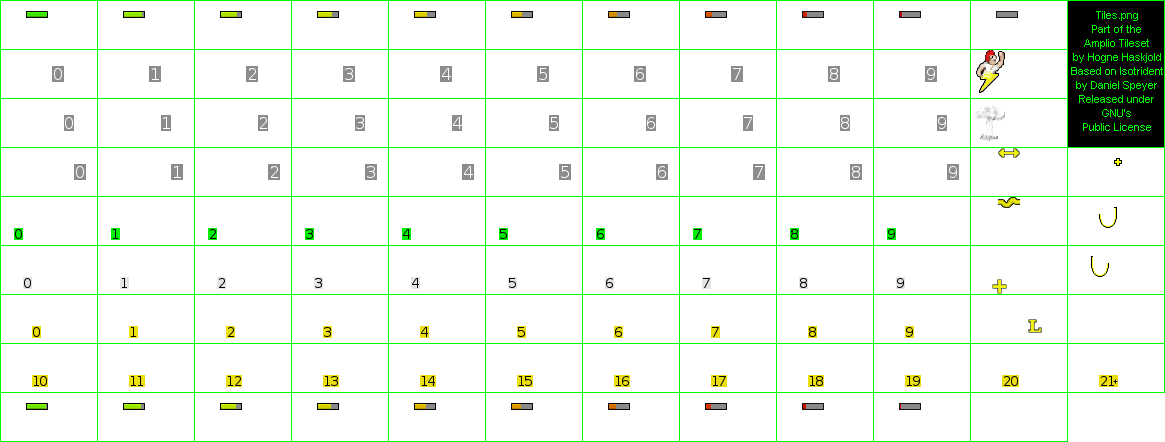
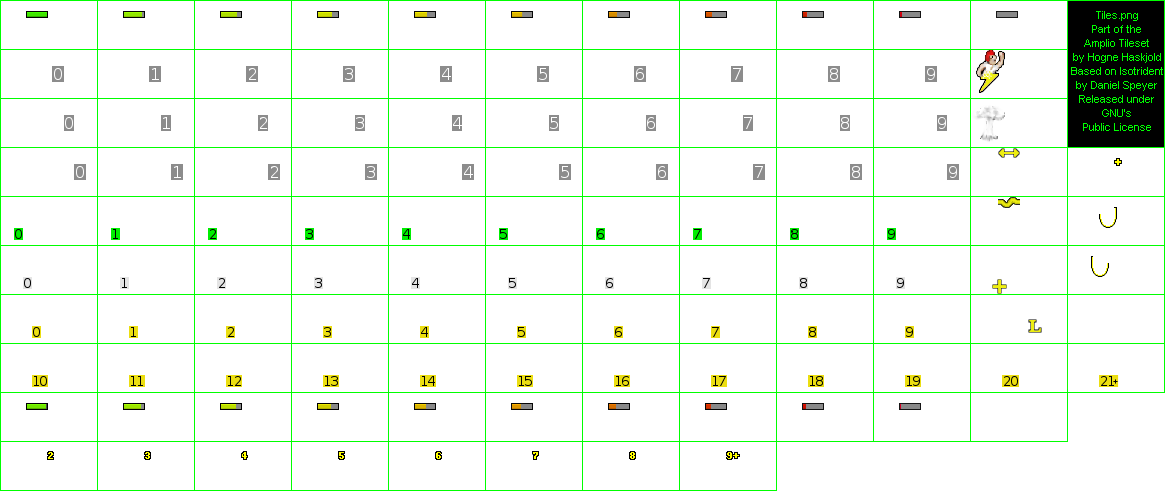
Add stacked unit counter for stack display mode 2...
2. default dispersion to 0; more corrective for games with Capture rules
3. more filtering for shift/alt/ctrl not falling through checks with false positives for hotkeys

diff --git a/freeciv-web/src/main/webapp/javascript/2dcanvas/tilespec.js b/freeciv-web/src/main/webapp/javascript/2dcanvas/tilespec.js
@@ -353,7 +353,8 @@ function fill_sprite_array(layer, ptile, pedge, pcorner, punit, pcity, citymode)
       var is_stacked = false;    // stacked units get a "+" icon drawn over them
       
       if (do_draw_unit && active_city == null) {
-        is_stacked = (ptile['units'] != null && ptile['units'].length > 1);
+        is_stacked = (ptile['units'] != null && ptile['units'].length > 1) ? ptile['units'].length : false;
+        if (is_stacked>9) is_stacked =9;  // 9 or more will just show a "9+" stack icon
         //var backdrop = false; /* !pcity; // this was unused var, eliminated for performance */
 
         if (unit_is_in_focus(punit)) {
@@ -669,7 +670,7 @@ function check_sprite_type(sprite_type)
  ...Highly modified, look at commits prior to 25.March.2020 if debug/
   comparison needed.
 **************************************************************************/
-function fill_unit_sprite_array(punit, stacked)
+function fill_unit_sprite_array(punit, num_stacked)
 {
   //var ptype = unit_type(punit);
   var id = punit['type'];
@@ -715,7 +716,7 @@ function fill_unit_sprite_array(punit, stacked)
     // Hit point bar
     result.push(get_unit_hp_sprite(punit));
     // Stacked "+" icon
-    if (stacked) {
+    if (num_stacked) {
       var push_right=0; // whether to push small stack icon right 2 pixels (for right aligned shield)
       // Optional shield ring for stacked units
       if (draw_stacked_unit_mode & dsum_RING) { 
@@ -731,7 +732,7 @@ function fill_unit_sprite_array(punit, stacked)
                 "offset_y" : -31-unit_offset['y']});
       }
       // Yellow "+" (small or normal) to show unit is in a stack:
-      var stacked = get_unit_stack_sprite();
+      var stacked = get_unit_stack_sprite(num_stacked);
       if (draw_stacked_unit_mode & dsum_SMALL) {
         stacked['offset_x'] += push_right;
       }
@@ -756,9 +757,9 @@ function fill_unit_sprite_array(punit, stacked)
  ...Fixing the fort drawing bug meant that when front walls of a base are
  drawn they can obscure the stacked icon, which gets redrawn in this case.
 **************************************************************************/
-function fill_stacked_in_base_sprite_array(punit)
+function fill_stacked_in_base_sprite_array(punit, num_stacked)
 {
-  var stacked = get_unit_stack_sprite();
+  var stacked = get_unit_stack_sprite(num_stacked);
 
   if (!(draw_stacked_unit_mode & dsum_SMALL) ) {  //// regular mode has custom offsets
     var id = punit['type'];
@@ -1021,10 +1022,10 @@ function get_unit_nation_flag_normal_sprite(punit)
 /**********************************************************************
   ...
 ***********************************************************************/
-function get_unit_stack_sprite(punit)
+function get_unit_stack_sprite(stacksize)
 {
   if (draw_stacked_unit_mode & dsum_SMALL) {   //// alternate small mode of showing stack near hpbar
-    return {"key" : "unit.stack1",
+    return {"key" : "unit.stack"+stacksize+"",
     "offset_x" : unit_flag_offset_x + -25,
     "offset_y" : - unit_flag_offset_y - 15};
   }
@@ -2005,7 +2006,7 @@ function fill_layer3_sprite_array(ptile, stacked, st_unit)
     result_sprites.push({"key" : "base.fortress_fg",
                           "offset_y" : -normal_tile_height / 2});
     if (stacked)
-      result_sprites.push(fill_stacked_in_base_sprite_array(st_unit));
+      result_sprites.push(fill_stacked_in_base_sprite_array(st_unit, stacked));
     return result_sprites;                  
   }
   // navalbase on top of fort, have to check for it first then return
@@ -2014,7 +2015,7 @@ function fill_layer3_sprite_array(ptile, stacked, st_unit)
       result_sprites.push({"key" : "base.navalbase_fg",
                             "offset_y" : -normal_tile_height / 2});
       if (stacked)
-        result_sprites.push(fill_stacked_in_base_sprite_array(st_unit));
+        result_sprites.push(fill_stacked_in_base_sprite_array(st_unit, stacked));
       return result_sprites;
     }
   }
@@ -2024,7 +2025,7 @@ function fill_layer3_sprite_array(ptile, stacked, st_unit)
       result_sprites.push({"key" : "base.outpost_fg",
                           "offset_y" : -normal_tile_height / 2});
       if (stacked)
-        result_sprites.push(fill_stacked_in_base_sprite_array(st_unit));
+        result_sprites.push(fill_stacked_in_base_sprite_array(st_unit, stacked));
       return result_sprites;  
     }
   }  

diff --git a/freeciv-web/src/main/webapp/javascript/control.js b/freeciv-web/src/main/webapp/javascript/control.js
@@ -2916,7 +2916,7 @@ function civclient_handle_key(keyboard_key, key_code, ctrl, alt, shift, the_even
     break;
 
     case 'S':
-      if (ctrl) {
+      if (ctrl && !shift && !alt) {
         the_event.preventDefault(); // override possible browser shortcut
         quicksave();
       }
@@ -3113,7 +3113,7 @@ map_handle_key(keyboard_key, key_code, ctrl, alt, shift, the_event)
       if (!ctrl && !alt && !shift) {
         key_unit_sentry();
       }
-      else if (shift) { // cycle through stacked unit display modes
+      else if (shift && !ctrl && !alt) { // cycle through stacked unit display modes
         draw_stacked_unit_mode ++;
         if (draw_stacked_unit_mode>3)
           draw_stacked_unit_mode = 0;
